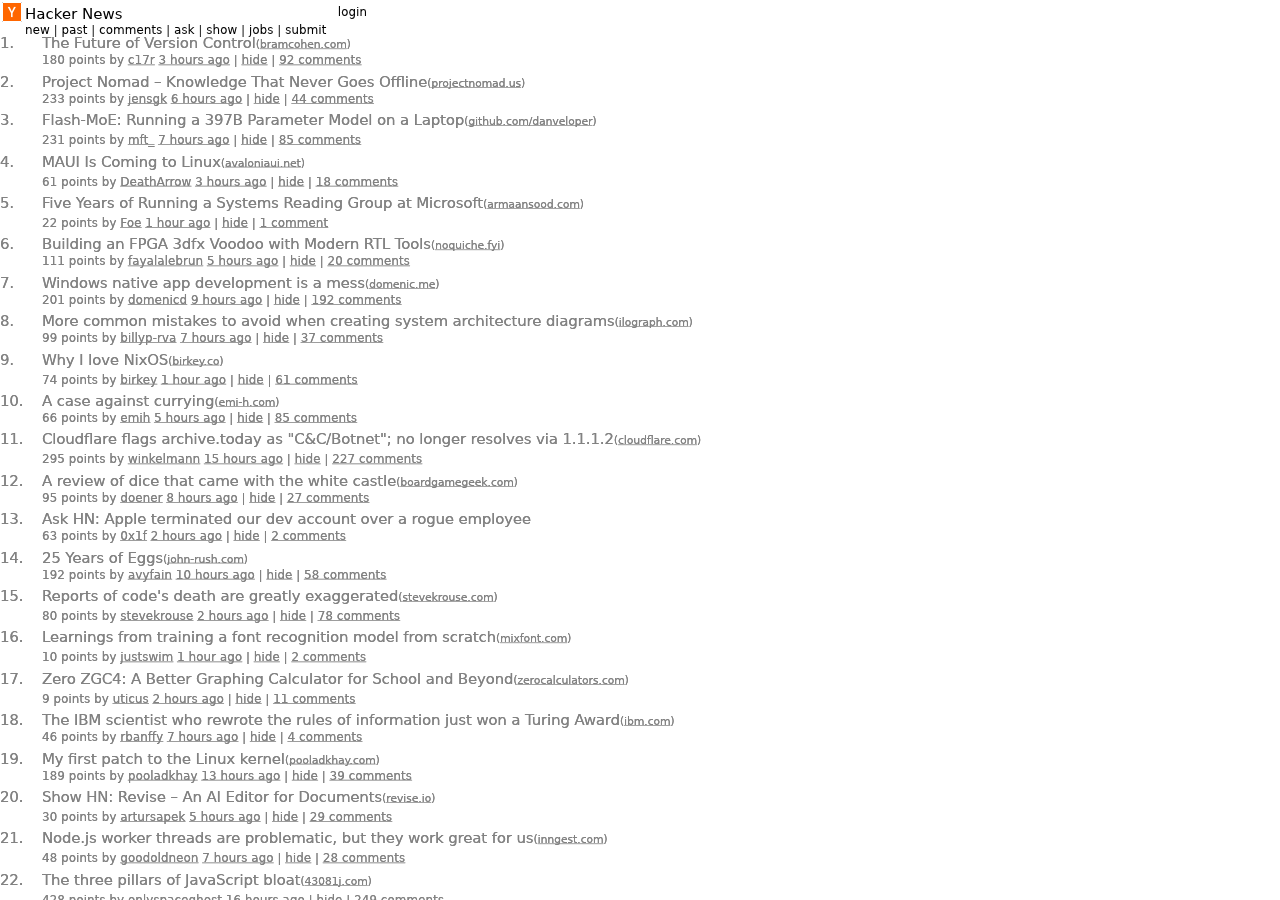
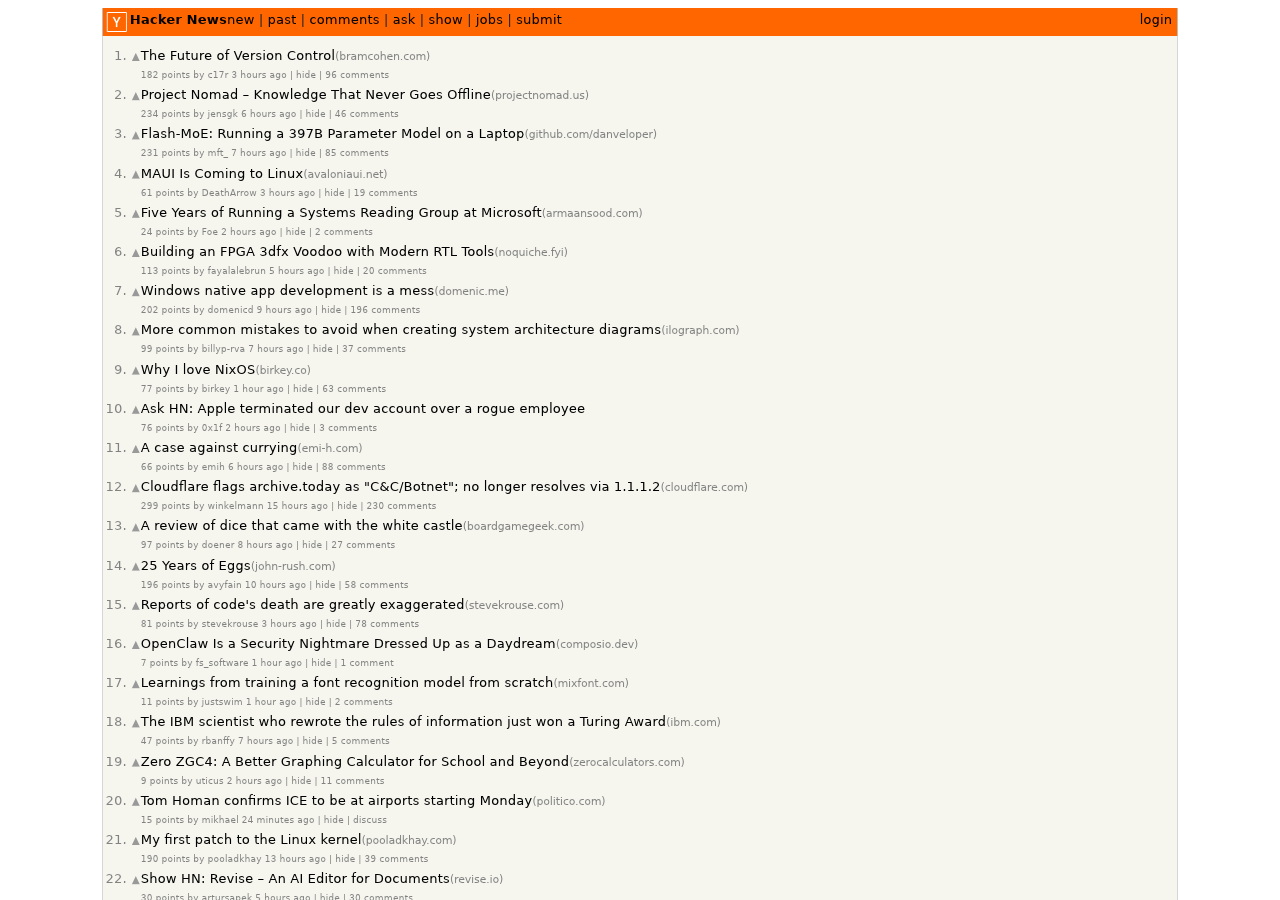
fix: remove CSS cascade from Blitz render pipeline — 9/10 screenshots
The CSS cascade (apply_cascade_to_html) was INTERFERING with Blitz's
own CSS engine. Blitz natively handles <style> tags, specificity, and
inheritance — injecting simplified computed styles as inline attributes
overrode Blitz's more accurate cascade, causing:
- HN: black background instead of orange/white (cascade tag defaults)
- books.toscrape: Blitz panic from conflicting inline styles
- Inflated PNG sizes (HN: 604KB → 413KB without cascade bloat)

Fix: Remove cascade from render pipeline. External CSS is already
correctly handled by inline_external_css() which adds <style> tags
that Blitz parses natively. css_cascade.rs remains for its intended
purpose: window.getComputedStyle() in the JS sandbox.

Results: 9/10 screenshots (up from 4/10 before all fixes), 0 crashes.
Only github.com fails (Blitz panic on 3.7MB inlined CSS, caught).

https://claude.ai/code/session_01J5MHJNQFrJht619Mm8T8G7

Changed region(s): [[0.0, 0.0, 0.9375, 1.0], [0.5, 0.5289, 0.5625, 0.56]]

diff --git a/src/lib.rs b/src/lib.rs
@@ -1235,27 +1235,18 @@ pub fn render_html_to_png(
             "Screenshot för stor: {width}×{height} = {total_pixels} pixlar (max {MAX_PIXELS})"
         ));
     }
-    // Applicera CSS cascade → inline styles innan Blitz-rendering
-    // Blitz renderar bara inline/HTML-styles — detta kopplar computed styles till rendering
-    // Skippa cascade för stora sidor (>300KB) — kostnaden väger tyngre än vinsten
-    #[cfg(feature = "js-eval")]
-    let html = {
-        const CASCADE_MAX_HTML_SIZE: usize = 300 * 1024; // 300 KB
-        if html.len() <= CASCADE_MAX_HTML_SIZE {
-            let (cascaded, _count) = css_cascade::apply_cascade_to_html(html);
-            cascaded
-        } else {
-            html.to_string()
-        }
-    };
-    #[cfg(not(feature = "js-eval"))]
-    let html = html.to_string();
+    // OBS: CSS cascade (css_cascade.rs) appliceras INTE här.
+    // Blitz har en egen full CSS-motor som hanterar <style>-taggar, specificitet och arv.
+    // Extern CSS hämtas av inline_external_css() och läggs som <style>-taggar som Blitz
+    // parsear nativt — det ger bättre resultat än vår förenklade cascade.
+    // css_cascade.rs används istället av JS-sandboxen (window.getComputedStyle).
 
     // Kör hela Blitz-renderingen i catch_unwind — Blitz kan panika vid tunga/felaktiga sidor
+    let html_owned = html.to_string();
     let base_url_owned = base_url.to_string();
 
     let render_result = std::panic::catch_unwind(std::panic::AssertUnwindSafe(move || {
-        render_html_to_png_inner(&html, &base_url_owned, width, height, fast_render)
+        render_html_to_png_inner(&html_owned, &base_url_owned, width, height, fast_render)
     }));
 
     match render_result {
